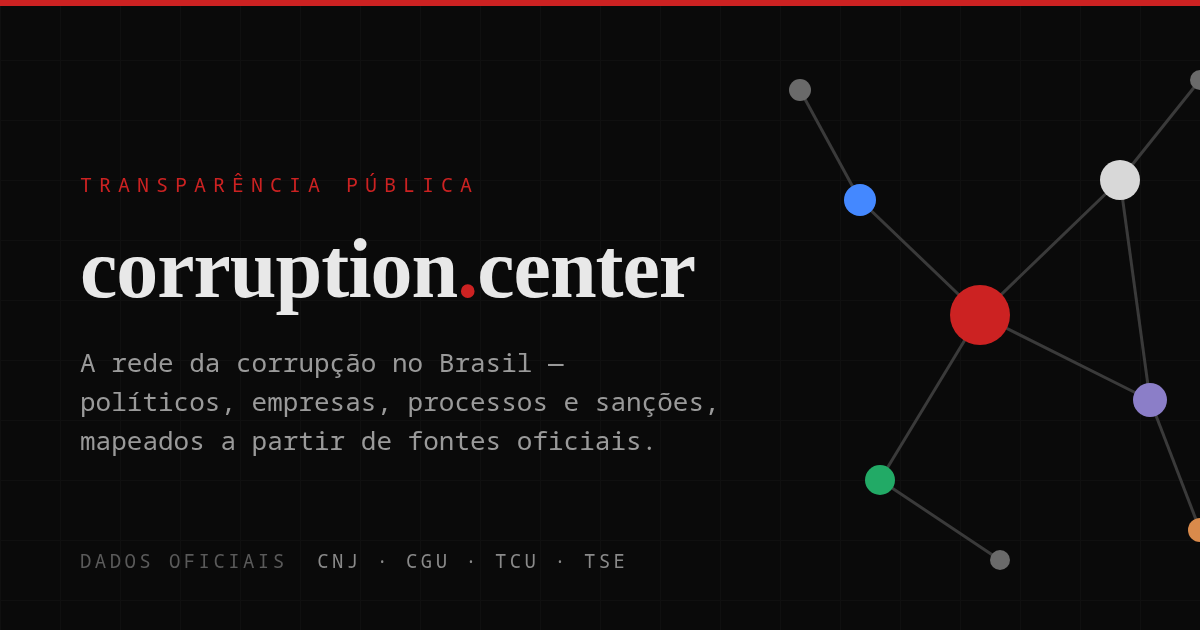
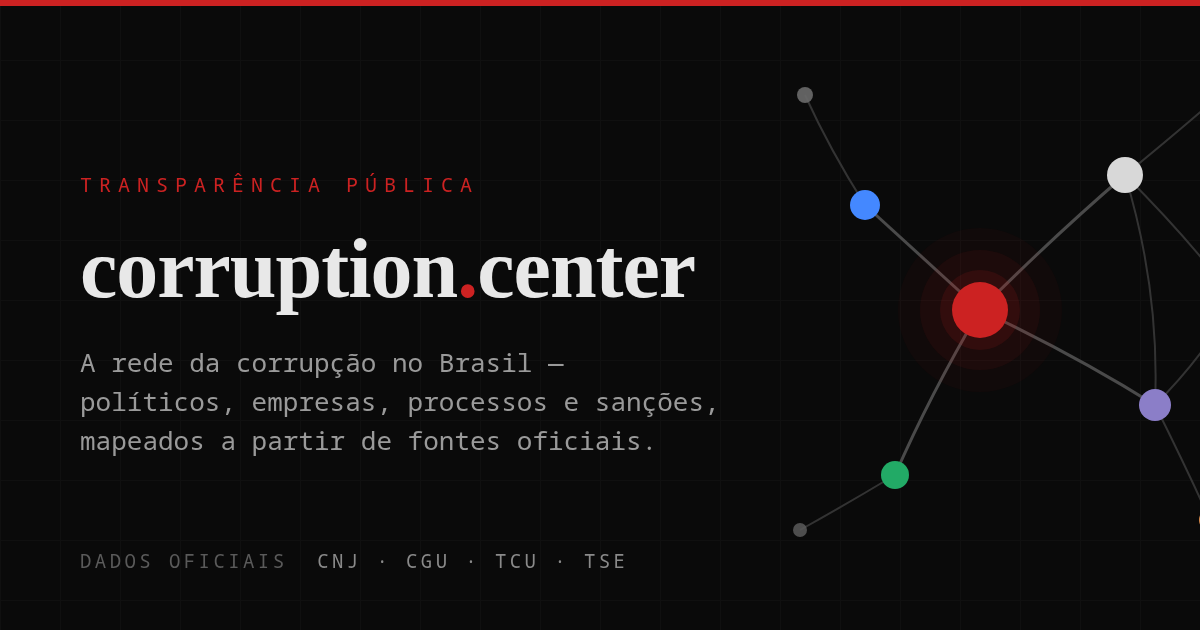
Draw the share-card network like the real force graph
Curved edges, a soft three-step glow on the scandal hub, a second tier of
dimmer connections, and size/opacity falling off toward the periphery — in
both the static brand card and the dynamic scandal cards, which stay
pixel-consistent.

diff --git a/frontend/app/escandalo/[id]/opengraph-image.tsx b/frontend/app/escandalo/[id]/opengraph-image.tsx
@@ -18,8 +18,9 @@ export const alt = "Escândalo no corruption.center"
 const RED = "#cc2222"
 
 // The same network motif as the static brand card (and the favicon): the
-// scandal node in red at the center of its connections. Satori renders inline
-// SVG, so the generated cards keep the brand's one recognizable mark.
+// scandal node in red at the center of its connections, drawn like the real
+// force graph — gently curved edges, a soft glow on the hub, and size/opacity
+// falling off toward the periphery. Satori renders inline SVG natively.
 function Network() {
   return (
     <svg
@@ -28,24 +29,39 @@ function Network() {
       viewBox="60 0 500 630"
       style={{ position: "absolute", right: -40, top: 0 }}
     >
-      <g stroke="#3a3a3a" strokeWidth="3" fill="none">
-        <path d="M300 315 L440 180" />
-        <path d="M300 315 L470 400" />
-        <path d="M300 315 L200 480" />
-        <path d="M300 315 L180 200" />
-        <path d="M440 180 L470 400" />
-        <path d="M180 200 L120 90" />
-        <path d="M470 400 L520 530" />
-        <path d="M440 180 L520 80" />
+      {/* hub edges */}
+      <g stroke="#4a4a4a" strokeWidth="3" fill="none">
+        <path d="M300 310 Q375 235 445 175" />
+        <path d="M300 310 Q395 355 475 405" />
+        <path d="M300 310 Q240 255 185 205" />
+        <path d="M300 310 Q250 395 215 475" />
       </g>
-      <circle cx="180" cy="200" r="16" fill="#4488ff" />
-      <circle cx="440" cy="180" r="20" fill="#d8d8d8" />
-      <circle cx="470" cy="400" r="17" fill="#8b7ec8" />
-      <circle cx="200" cy="480" r="15" fill="#22aa66" />
-      <circle cx="120" cy="90" r="11" fill="#6a6a6a" />
-      <circle cx="520" cy="530" r="12" fill="#d98a4b" />
-      <circle cx="520" cy="80" r="10" fill="#6a6a6a" />
-      <circle cx="300" cy="315" r="30" fill={RED} />
+      {/* second-tier edges, dimmer and thinner */}
+      <g stroke="#333333" strokeWidth="2" fill="none">
+        <path d="M445 175 Q480 290 475 405" />
+        <path d="M445 175 Q500 130 540 95" />
+        <path d="M445 175 Q510 240 555 300" />
+        <path d="M475 405 Q525 355 555 300" />
+        <path d="M475 405 Q505 465 530 520" />
+        <path d="M185 205 Q150 150 125 95" />
+        <path d="M215 475 Q165 505 120 530" />
+      </g>
+      {/* glow behind the scandal hub */}
+      <circle cx="300" cy="310" r="82" fill={RED} opacity="0.04" />
+      <circle cx="300" cy="310" r="60" fill={RED} opacity="0.07" />
+      <circle cx="300" cy="310" r="40" fill={RED} opacity="0.12" />
+      {/* inner ring: the entity types, in the graph's own colors */}
+      <circle cx="445" cy="175" r="18" fill="#d8d8d8" />
+      <circle cx="475" cy="405" r="16" fill="#8b7ec8" />
+      <circle cx="185" cy="205" r="15" fill="#4488ff" />
+      <circle cx="215" cy="475" r="14" fill="#22aa66" />
+      {/* periphery, fading out */}
+      <circle cx="530" cy="520" r="11" fill="#d98a4b" />
+      <circle cx="540" cy="95" r="9" fill="#6a6a6a" />
+      <circle cx="555" cy="300" r="9" fill="#7a7a7a" />
+      <circle cx="125" cy="95" r="8" fill="#6a6a6a" opacity="0.9" />
+      <circle cx="120" cy="530" r="7" fill="#5a5a5a" opacity="0.85" />
+      <circle cx="300" cy="310" r="28" fill={RED} />
     </svg>
   )
 }
